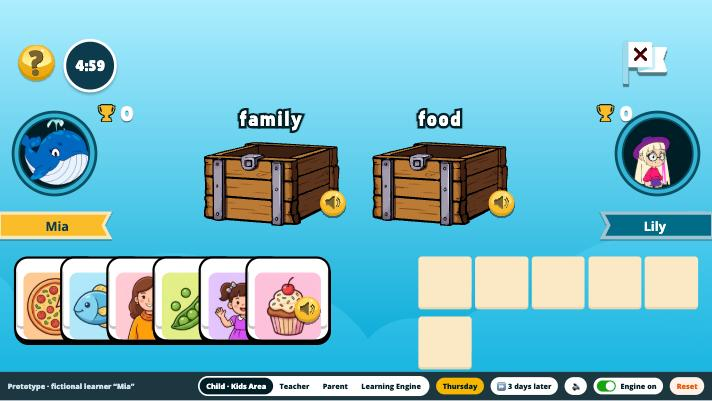
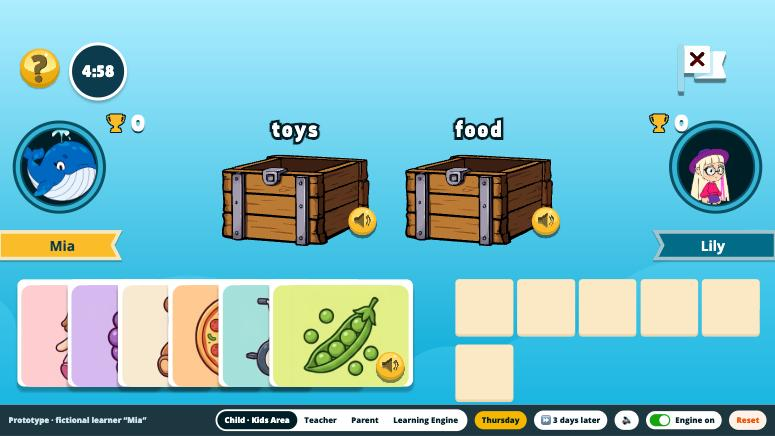
Fill game tiles with pictures and stop clipping the snake

diff --git a/app.js b/app.js
@@ -123,6 +123,8 @@
   // custom UI icons (Gemini sheets cut into round badges) instead of emoji
   const ICO = (n, cls = "") => `<img class="ico ${cls}" src="assets/img/ui/${n}.jpg" alt="">`;
   const TICO = (u, cls = "") => `<img class="ico tico ${cls}" src="assets/img/ui/t-${u.id || u}.jpg" alt="">`;
+  // picture that fills a tile: the backdrop is the image's own corner colour, magnified, so nothing is cropped
+  const fpic = (id, cls = "") => { const w = W(id); return w.img ? `<span class="fp ${cls}" style="background-image:url(${w.img})"><img src="${w.img}" alt=""></span>` : pic(id); };
   const pic = (id) => { const w = W(id); return `<span class="emo">${w.img ? `<img class="wimg" src="${w.img}" alt="">` : w.emo}</span>`; };
   let toastT;
   function toast(m) { let t = $(".ka-toast"); if (!t) { t = document.createElement("div"); t.className = "ka-toast"; t.setAttribute("role", "status"); document.body.appendChild(t); } t.textContent = m; clearTimeout(toastT); toastT = setTimeout(() => t.remove(), 2600); }
@@ -184,7 +186,7 @@
   const recommended = () => (S.engine ? queue().slice(0, 3).map((q) => q.id) : []);
 
   // ---------- scaling (same as Kids Area: 616×320 canvas + CSS zoom) ----------
-  function fit() { const Wd = window.innerWidth, H = window.innerHeight - 52; $("#stage").style.setProperty("--zoom", Math.max(0.4, Math.min(Wd / 616, H / 320)).toFixed(4)); }
+  function fit() { const Wd = window.innerWidth, H = window.innerHeight - 52; const z = Math.max(0.4, Math.min(Wd / 616, H / 320)).toFixed(4); $("#stage").style.setProperty("--zoom", z); $("#kaRoot").style.setProperty("--z", z); }
   window.addEventListener("resize", fit);
 
   // ---------- shared pieces ----------
@@ -601,7 +603,7 @@
     if (SN.tx !== null && !it.solved && !it.failed && Math.hypot(SN.tx - SN.x, SN.ty - SN.y) > 6) {
       let d = Math.atan2(SN.ty - SN.y, SN.tx - SN.x) - SN.a; while (d > Math.PI) d -= 2 * Math.PI; while (d < -Math.PI) d += 2 * Math.PI;
       SN.a += Math.max(-TURN * dt, Math.min(TURN * dt, d));
-      SN.x = Math.max(14, Math.min(SB.w - 14, SN.x + Math.cos(SN.a) * SPEED * dt)); SN.y = Math.max(14, Math.min(SB.h - 14, SN.y + Math.sin(SN.a) * SPEED * dt));
+      SN.x = Math.max(32, Math.min(SB.w - 32, SN.x + Math.cos(SN.a) * SPEED * dt)); SN.y = Math.max(32, Math.min(SB.h - 32, SN.y + Math.sin(SN.a) * SPEED * dt));
       SN.trail.unshift({ x: SN.x, y: SN.y }); if (SN.trail.length > 500) SN.trail.length = 500;
       for (const e of SN.eggs) {
         if (e.gone || Math.hypot(e.x - SN.x, e.y - SN.y) > 22) continue;
@@ -693,20 +695,20 @@
         <div class="qz-rib"><img src="${GA.blueShort}" alt="">${prim(`${ses.i + 1}/${ses.items.length}`, 16)}</div><div class="qz-line"></div>
         ${ico(GA.back, "qexit", `data-act="quit"`, "Leave the game")}
         ${widget("me", ses)}${widget("enemy", ses)}
-        <div class="qz-q"><img class="t" src="${GA.qTile}" alt="">${pic(it.id)}</div>
+        <div class="qz-q"><img class="t" src="${GA.qTile}" alt="">${fpic(it.id)}</div>
         ${it.opts.map((o, k) => `<button class="qz-o" style="left:${[105, 242, 380][k]}px" data-quiz="${esc(o)}" ${it.pick ? "disabled" : ""}><img class="t" src="${tile(o)}" alt=""><span>${esc(W(o).word)}</span></button>`).join("")}`;
     }
     if (g === "memo") {
-      const cols = 4, rows = Math.ceil(ses.cards.length / cols), tw = 64, th = 50, gap = 6, x0 = (616 - (cols * tw + (cols - 1) * gap)) / 2, y0 = 120 + (3 - rows) * 28;
+      const cols = 4, rows = Math.ceil(ses.cards.length / cols), tw = 78, th = 62, gap = 6, x0 = (616 - (cols * tw + (cols - 1) * gap)) / 2, y0 = 112 + (3 - rows) * 34;
       return `<div class="gscene sky"></div>
         <div class="mm-rib"><img src="${GA.memoTitle}" alt="">${prim("MEMO MIX", 14)}</div>
         ${quitBtn()}${widget("me", ses, ses.turn === "me" && !ses.preview)}${widget("enemy", ses, ses.turn === "bot")}
         ${ses.cards.map((c, k) => `<button class="mm-c ${c.matched ? "ok" : ""}" style="left:${x0 + (k % cols) * (tw + gap)}px;top:${y0 + Math.floor(k / cols) * (th + gap)}px" data-memo="${k}">
-          <img class="t" src="${GA.memoCard}" alt="">${c.open || c.matched ? (c.t === "pic" ? `${pic(c.id)}` : `<span class="w">${esc(W(c.id).word)}</span>`) : ""}</button>`).join("")}
+          <img class="t" src="${GA.memoCard}" alt="">${c.open || c.matched ? (c.t === "pic" ? fpic(c.id) : `<span class="w">${esc(W(c.id).word)}</span>`) : ""}</button>`).join("")}
         ${ses.preview ? `<div class="mm-hint">${prim("REMEMBER!", 13)}</div>` : ""}`;
     }
     if (g === "boxes") {
-      const deck = ses.deck.map((id, k) => { const isTop = k === ses.deck.length - 1; return `<div class="bx-card ${isTop ? "top" : ""}" style="left:${12 + k * 40}px"><img class="t" src="${GA.boxCard}" alt="">${pic(id)}${isTop ? listenBtn(id, "card-lis") : ""}</div>`; }).join("");
+      const deck = ses.deck.map((id, k) => { const isTop = k === ses.deck.length - 1; return `<div class="bx-card ${isTop ? "top" : ""}" style="left:${12 + k * 40}px"><img class="t" src="${GA.boxCard}" alt="">${fpic(id)}${isTop ? listenBtn(id, "card-lis") : ""}</div>`; }).join("");
       const slots = ses.deck.map((_, k) => `<div class="bx-slot" style="left:${362 + (k % 5) * 49}px;top:${221 + Math.floor(k / 5) * 52}px"><img src="${GA.boxSlot}" alt=""></div>`).join("");
       const name = (u) => UNITS.find((x) => x.id === u).name.toLowerCase();
       return `<div class="gscene sky"></div>
@@ -721,7 +723,7 @@
       const it = cur(), need = letters(it.id)[it.pos];
       return `<div class="gscene bub"></div>
         ${helpBtn()}${timer(ses)}<button class="bb-hint" data-act="hint" ${it.hint || it.solved ? "disabled" : ""}><img src="${GA.bubHintBtn}" alt=""><span>HINT</span></button>
-        <div class="bb-mis"><img class="t" src="${GA.bubMission}" alt="">${pic(it.id)}${listenBtn(it.id, "mis-lis")}</div>
+        <div class="bb-mis"><img class="t" src="${GA.bubMission}" alt="">${fpic(it.id)}${listenBtn(it.id, "mis-lis")}</div>
         <div class="bb-en"><img class="t" src="${GA.bubEnemy}" alt=""><div class="mini">${Array.from({ length: 9 }, () => `<img src="${GA.bubMini}" alt="">`).join("")}</div>
           <div class="en-name"><img src="${GA.trophy}" alt=""><b id="gbot">${ses.bot}</b><span>${ENEMY}</span><img class="ea" src="${GA.enemyAv}" alt=""></div></div>
         ${widget("me", ses)}${quitBtn()}

diff --git a/ka.css b/ka.css
@@ -716,3 +716,31 @@ html.ka, html.ka body { margin: 0; height: 100%; overflow: hidden; }
 .pw .av .in, .sn-av .av .in { top: 7%; left: 7%; width: 86%; height: 86%; box-shadow: 0 0 0 1.5px #0B4F63; }
 .pw .av .in .ch, .sn-av .av .in .ch { width: 135%; left: -30%; top: -6%; }
 .pw.enemy .av .in .ch { width: 100%; left: 0; top: 4%; }
+/* pictures fill their tiles */
+.fp { position: absolute; display: flex; align-items: center; justify-content: center; overflow: hidden; background-size: 4000% 4000%; background-position: 2% 2%; background-repeat: no-repeat; }
+.fp img { display: block; height: 100%; width: auto; }
+.ka-stage .mm-c { width: 78px; height: 62px; }
+.mm-c .fp { inset: 3px 3px 5px; border-radius: 4px; }
+.mm-c .w { font-size: 12px; }
+.ka-stage .bx-card { width: 118px; height: 91px; border: 0; border-radius: 0; background: none; box-shadow: none; }
+.bx-card .fp { inset: 5px; border-radius: 8px; }
+.ka-stage .gi.card-lis { top: auto; bottom: 8px; right: 8px; }
+.bx-slot .emo .wimg { width: 42px; height: 42px; border-radius: 3px; }
+.qz-q .fp { inset: 9px 10px 11px; border-radius: 10px; }
+.bb-mis .fp { inset: 5px 5px 7px; border-radius: 3px; }
+.rc-p .pic { overflow: hidden; }
+.rc-p .pic .wimg { display: block; width: 52px; height: 52px; border-radius: 0; }
+/* snake: the field runs to the window edges, nothing is clipped */
+.ka-root.bg-g-snake { background: linear-gradient(rgba(37,35,65,.45), rgba(37,35,65,.45)), url("https://school.novakidschool.com/games/snake/assets/background.ece45b59.svg") 0 0 / calc(420px * var(--z, 1)) auto repeat, #252341; }
+.ka-root.bg-g-snake .ka-stage { overflow: visible; }
+.sn-board { background: none; overflow: visible; }
+.sn-board::before { inset: auto; left: -2px; top: 100%; width: 2px; height: 100vh; background: #fff; }
+.sn-board::after { content: ""; position: absolute; left: 100%; top: -2px; width: 100vw; height: 2px; background: #fff; pointer-events: none; }
+/* quiz question panel: the frame SVG keeps its own ratio and came out narrower than the panel, so it is drawn in CSS */
+.qz-q .t { display: none; }
+.qz-q { box-sizing: border-box; background: #FFF6DF; border: 5px solid #F8C94E; border-radius: 16px; box-shadow: inset 0 0 0 2px #FFE7A3, 0 2px 0 rgba(13,59,78,.22); }
+.qz-q .fp { inset: 3px; border-radius: 9px; }
+.sp-card .emo { display: block; line-height: 0; }
+.sp-card .wimg { width: 150px; height: 150px; border-radius: 10px; mix-blend-mode: normal; }
+.sp-card:has(.sp-w) .wimg { width: 124px; height: 124px; }
+.sp-card .sp-w { line-height: 1.2; }

diff --git a/index.html b/index.html
@@ -7,8 +7,8 @@
 <link rel="preconnect" href="https://fonts.googleapis.com">
 <link rel="preconnect" href="https://fonts.gstatic.com" crossorigin>
 <link href="https://fonts.googleapis.com/css2?family=Lilita+One&family=Open+Sans:wght@400;600;700;800&display=swap" rel="stylesheet">
-<link rel="stylesheet" href="styles.css?v=42">
-<link rel="stylesheet" href="ka.css?v=42">
+<link rel="stylesheet" href="styles.css?v=44">
+<link rel="stylesheet" href="ka.css?v=44">
 </head>
 <body>
   <div class="ka-root bg-dash" id="kaRoot">
@@ -19,6 +19,6 @@
   </div>
   <div class="adult-page" id="adultPage" hidden><div class="screen adult" id="adultScreen"></div></div>
   <div class="demo-bar floating" id="demoBar"></div>
-  <script src="app.js?v=42"></script>
+  <script src="app.js?v=44"></script>
 </body>
 </html>
